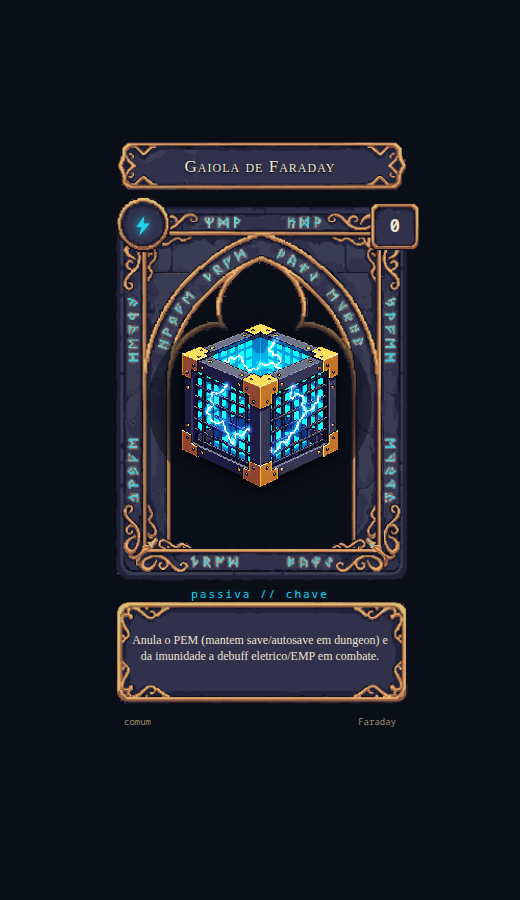
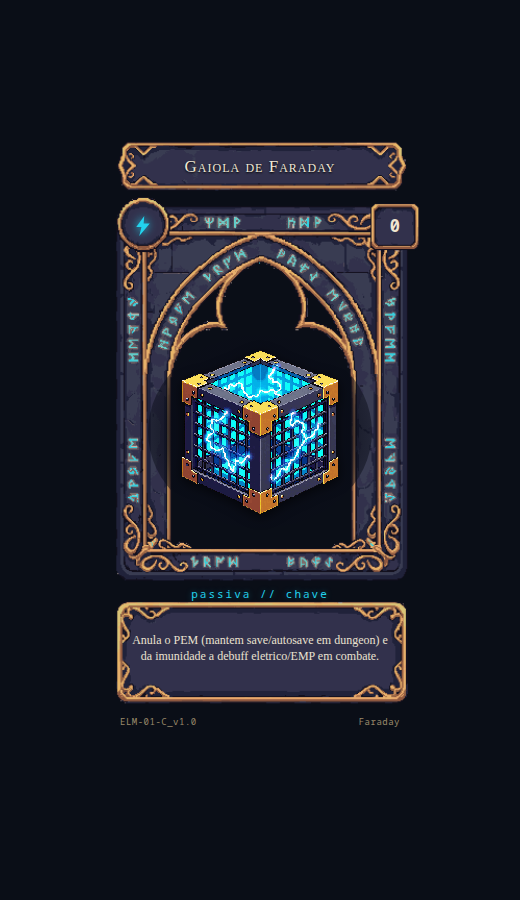
design(cards): Faraday FINAL canonizada - gaiola 53% + codigo/ID de carta ELM-01-C_v1.0 (esquema DOM-NN-R_vM.m)

diff --git a/docs/design/mockups/25-carta-faraday.html b/docs/design/mockups/25-carta-faraday.html
@@ -8,9 +8,9 @@
   .card{position:relative;width:400px;height:717px}
   .frame{position:absolute;inset:0;width:100%;height:100%;image-rendering:auto}
   /* fundo escuro sutil atras da figura, dentro da janela de arte, pra a gaiola destacar */
-  .artbg{position:absolute;left:50%;top:49.3%;transform:translate(-50%,-50%);width:56%;height:27%;border-radius:50%;
+  .artbg{position:absolute;left:50%;top:53%;transform:translate(-50%,-50%);width:56%;height:27%;border-radius:50%;
          background:radial-gradient(ellipse at center,#0a0d18dd 45%,#0a0d1877 72%,transparent);}
-  .cage{position:absolute;left:50%;top:49.3%;transform:translate(-50%,-50%);width:44%;height:auto;image-rendering:pixelated;
+  .cage{position:absolute;left:50%;top:53%;transform:translate(-50%,-50%);width:44%;height:auto;image-rendering:pixelated;
         filter:drop-shadow(0 3px 6px #0009)}
   .name{position:absolute;left:8%;right:8%;top:16.1%;transform:translateY(-50%);text-align:center;color:#f0e8d6;
         font-variant:small-caps;letter-spacing:1px;font-size:17px;text-shadow:0 1px 2px #000}
@@ -23,8 +23,8 @@
         font-size:11px;letter-spacing:2px;text-shadow:0 0 6px #22d3ee66}
   .fx{position:absolute;left:17%;right:17%;top:83.2%;transform:translateY(-50%);
       text-align:center;color:#eae2d0;font-size:12px;line-height:1.34}
-  .foot{position:absolute;left:0;right:0;top:92.5%;display:flex;justify-content:space-between;padding:0 16%;
-        font-size:9px;color:#9a8a6a;font-family:"Consolas",monospace}
+  .foot{position:absolute;left:0;right:0;top:92.5%;display:flex;justify-content:space-between;padding:0 15%;
+        font-size:9px;color:#9a8a6a;font-family:"Consolas",monospace;letter-spacing:0.5px}
 </style>
 </head>
 <body>
@@ -37,7 +37,7 @@
     <div class="cost">0</div>
     <div class="type">passiva // chave</div>
     <div class="fx">Anula o PEM (mantem save/autosave em dungeon) e da imunidade a debuff eletrico/EMP em combate.</div>
-    <div class="foot"><span>comum</span><span>Faraday</span></div>
+    <div class="foot"><span>ELM-01-C_v1.0</span><span>Faraday</span></div>
   </div>
 </body>
 </html>

diff --git a/docs/design/card-frame-spec.md b/docs/design/card-frame-spec.md
@@ -63,3 +63,7 @@ Pipeline da carta APROVADO e validado ponta a ponta na "Gaiola de Faraday". Mold
 2. Medir os centros de slot por **cv2** (HoughCircles no circulo, findContours no quadrado). **NAO assumir simetria** (o quadrado do custo e assimetrico em relacao ao circulo).
 3. **Sigilos = SVG vetorial** com `viewBox` = bbox exata do desenho + `preserveAspectRatio xMidYMid meet`, centrado por construcao. NUNCA emoji (assimetrico + metrica de fonte propria = descentraliza).
 4. No **componente glintfx real** (CARTAS-PRODUCAO) o alinhamento e NATIVO (flex/align RCSS) — toda essa medicao e so pra o mock HTML sobre raster ser fiel.
+
+
+## Código/ID de carta (criador 2026-07-09)
+Rodape esquerdo = **`DOM-NN-R_vM.m`** (id interno, dispensa o nome): DOM=dominio 3 letras (ELM/FIS/MAT/CMP/OCU/ECO/CAP), NN=ordem no dominio, R=raridade C/R/L, vM.m=versao. Rodape direito = nome da figura. Faraday = `ELM-01-C_v1.0`. Tabela dos 21 IDs em `reference_carta_mock_posicoes`. Gaiola (figura interior) centrada em top:53% (o arco puxa o centro geometrico pra cima).